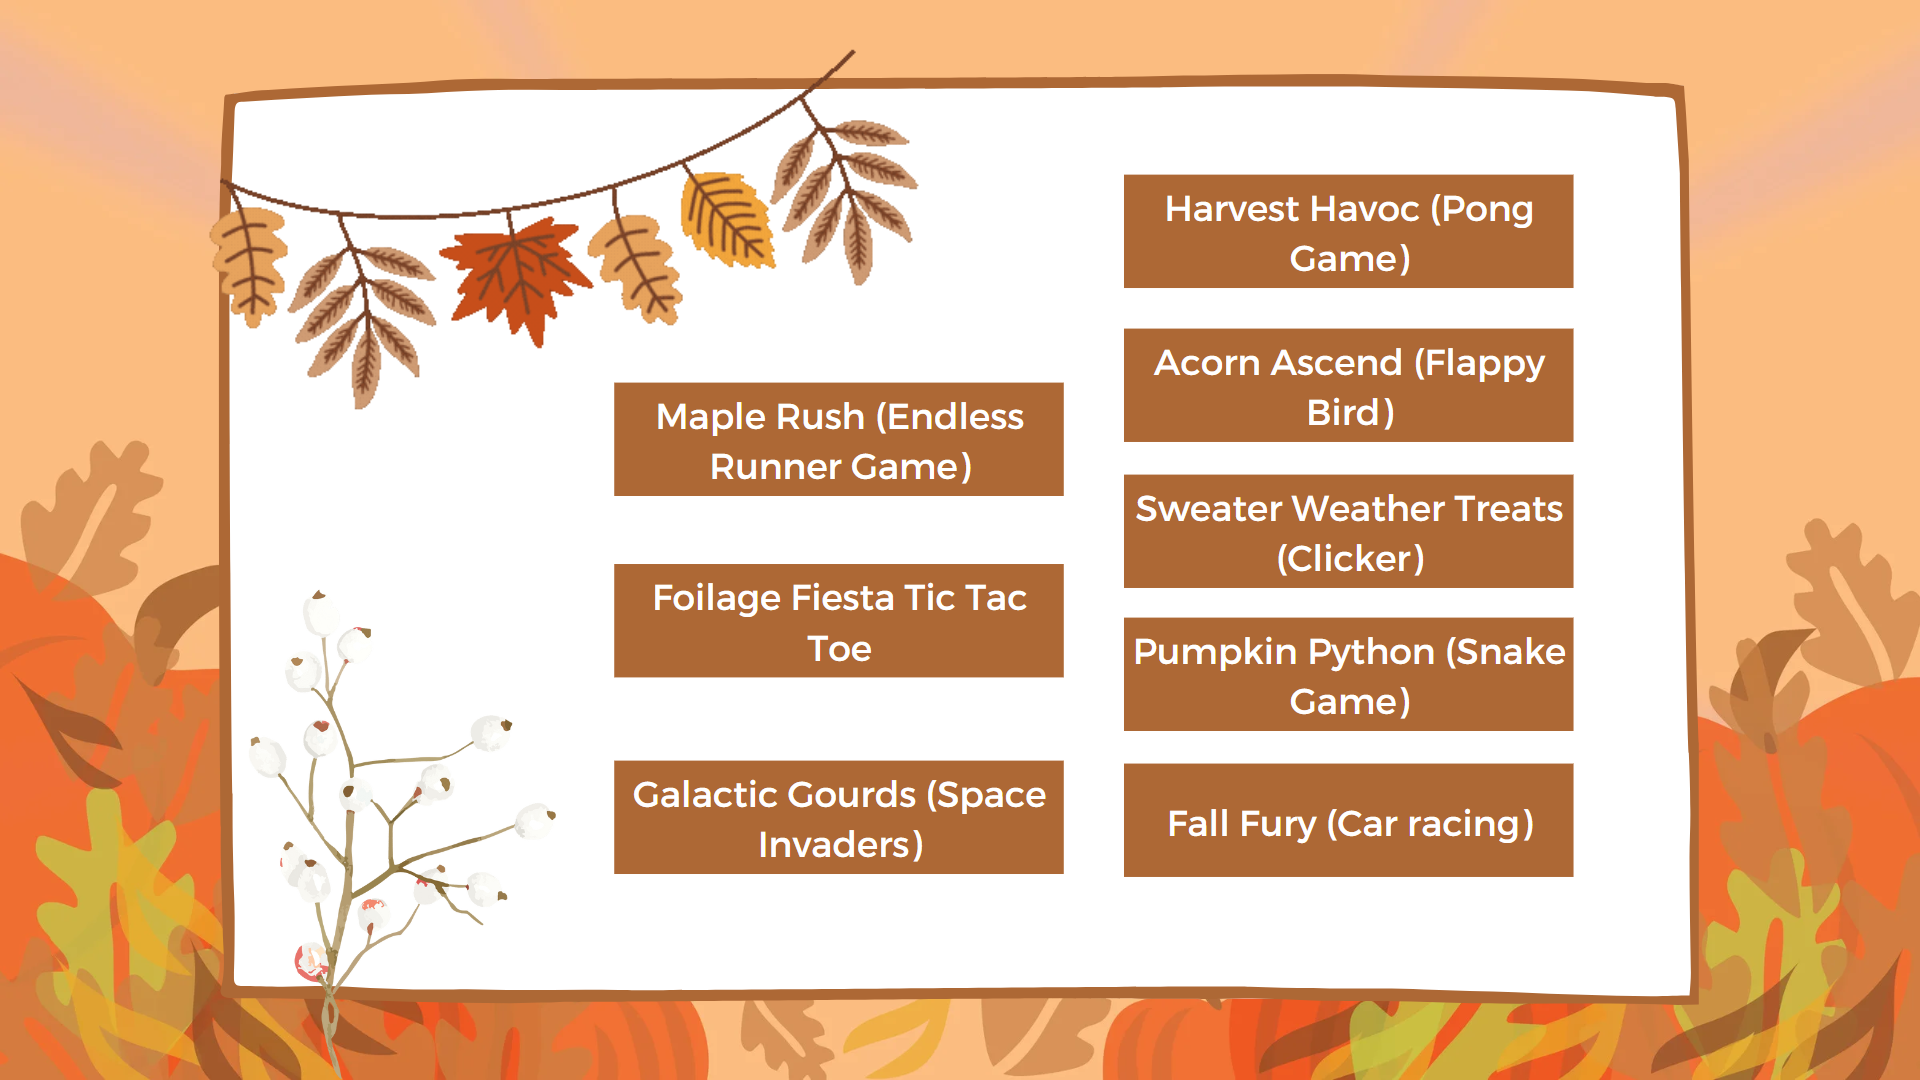
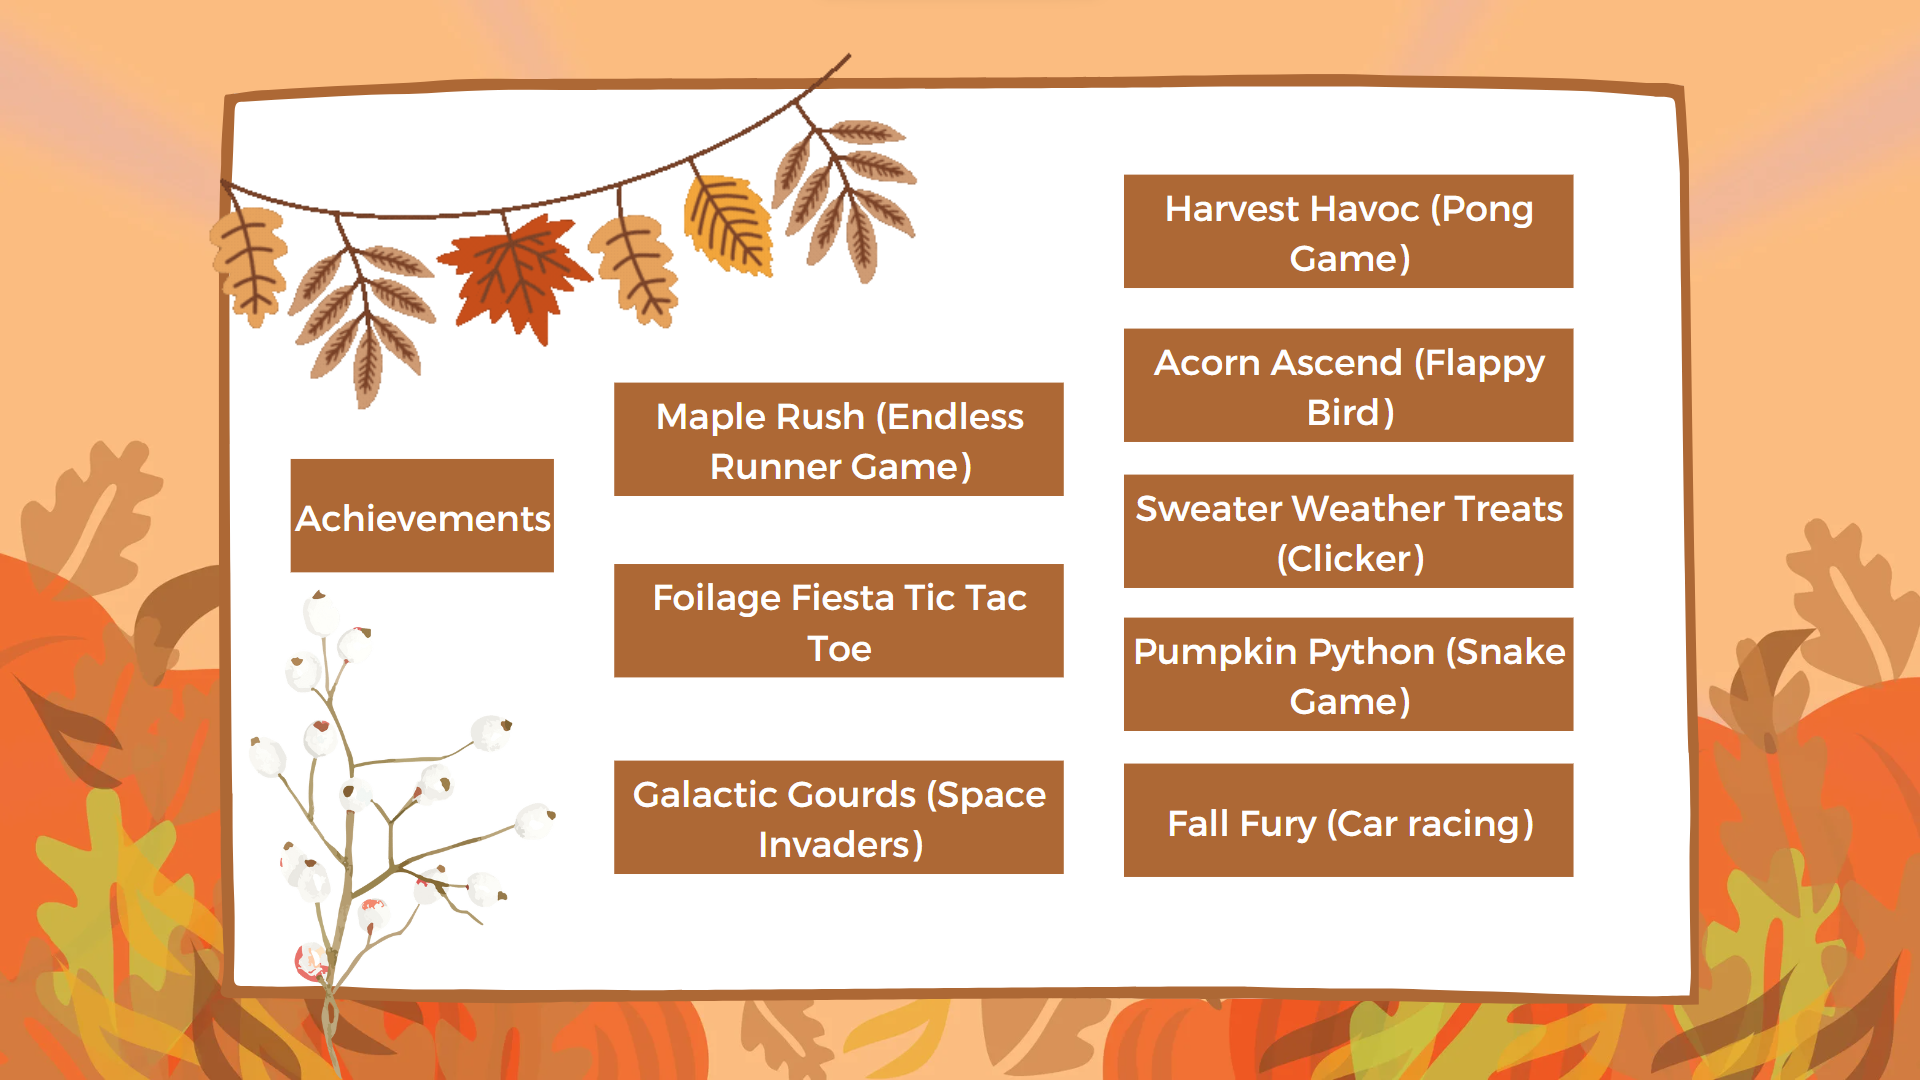
achievements (work in progress) and money

Changed region(s): [[0.125, 0.0917, 0.5, 0.3667], [0.125, 0.4278, 0.3125, 0.55]]

diff --git a/achievements.py b/achievements.py
@@ -1,0 +1,86 @@
+import random
+import pygame
+import os
+import subprocess
+
+pygame.init()
+
+screen_width = pygame.display.Info().current_w
+screen_height = pygame.display.Info().current_h
+
+screen = pygame.display.set_mode((screen_width, screen_height), pygame.FULLSCREEN)
+pygame.display.set_caption("Mini-Game Hub")
+
+font = pygame.font.Font(None, 60)
+font2 = pygame.font.Font(None, 30)
+
+width = screen.get_width()
+height = screen.get_height()
+splash_page = pygame.image.load('images/achieve.png')
+scaled_splash = pygame.transform.scale(splash_page, (800, 800))
+
+running = True
+
+clock = pygame.time.Clock()
+
+achievements = [
+    {"name": "Road Runner (500 points in Maple Rush)", "achieved": False},
+    {"name": "Cosmic Annihilator (500 points in Galactic Gourds)", "achieved": False},
+    {"name": "Winged Wonder (250 points in Acorn Ascend)", "achieved": True},
+    {"name": "Clicking Maestro (1000000 clicks in Sweater Weather Treats)", "achieved": True},
+    {"name": "Reptilian Ruler (25 apples in Pumpkin Python)", "achieved": False},
+    {"name": "Speed Demon (50 points in Fall Fury)", "achieved": True},
+    {"name": "Money Master (click to buy for 250 coins)", "achieved": False}
+]
+
+achieved_color = (0, 128, 0)  
+unachieved_color = (128, 128, 128) 
+
+while running:
+    for event in pygame.event.get():
+        if event.type == pygame.QUIT:
+            running = False
+        elif event.type == pygame.MOUSEBUTTONDOWN:
+            if event.button == 1:
+                mouse_pos = pygame.mouse.get_pos()
+                print(mouse_pos)
+                if (
+                    mouse_pos[0] > 230
+                    and mouse_pos[0] < 440
+                    and mouse_pos[1] > 365
+                    and mouse_pos[1] < 460
+                ):
+                    subprocess.Popen("python intro.py")
+                    pygame.quit()
+
+        if event.type == pygame.KEYDOWN:
+            if event.key == pygame.K_q:
+                running = False
+
+    with open("money.txt") as f:
+        contents = f.readlines()
+    c = ""
+    for thing in contents:
+        c += thing
+
+    txt = font.render("Money: " + c, 1, (0, 0, 0))
+
+    scaled_splash = pygame.transform.smoothscale(scaled_splash, (width, height))
+
+    screen.blit(scaled_splash, (0, 0))
+
+    screen.blit(txt, (10, 10))
+
+    y = 200  
+    for achievement in achievements:
+        name = achievement["name"]
+        achieved = achievement["achieved"]
+        color = achieved_color if achieved else unachieved_color
+        txt_achieve = font2.render(name, 1, color)
+        screen.blit(txt_achieve, (750, y))
+        y += 80  
+
+    pygame.display.flip()
+    clock.tick(60)
+
+pygame.quit()

diff --git a/intro.py b/intro.py
@@ -13,7 +13,7 @@ screen_height = pygame.display.Info().current_h
 screen = pygame.display.set_mode((screen_width, screen_height), pygame.FULLSCREEN)
 pygame.display.set_caption("Mini-Game Hub")
 
-font = pygame.font.Font(None, 36)
+font = pygame.font.Font(None, 60)
 
 
 width = screen.get_width()
@@ -21,50 +21,22 @@ height = screen.get_height()
 splash_page = pygame.image.load('images/games.png')
 scaled_splash = pygame.transform.scale(splash_page, (800, 800))
 
-class Ball:
-    def __init__(self):
-        self.radius = 20
-        self.color = (255, 0, 0)  
-        self.x = random.randint(self.radius, screen_width - self.radius)
-        self.y = -self.radius
-        self.velocity = 0
-        self.gravity = 0.5
-
-    def update(self):
-        self.y += self.velocity
-        self.velocity += self.gravity
-
-        if self.y + self.radius >= screen_height:
-            self.y = screen_height - self.radius
-            self.velocity *= -0.8
-
-            if abs(self.velocity) < 5:
-                self.y=screen_height-15
-
-    def draw(self):
-        pygame.draw.circle(screen, self.color, (self.x, int(self.y)), self.radius)
-
-balls=[]
 
 running = True
 
 clock = pygame.time.Clock()
 
-freq=200
-
-
 while running:
-    r=random.randint(0,freq)
-    if r<5:
-        ball=Ball()
-        balls.append(ball)
     for event in pygame.event.get():
         if event.type == pygame.QUIT:
             running = False
         elif event.type == pygame.MOUSEBUTTONDOWN:
-            freq+=1
             if event.button == 1:
                 mouse_pos = pygame.mouse.get_pos()
+                print(mouse_pos)
+                if mouse_pos[0]>230 and mouse_pos[0]<440 and mouse_pos[1]>365 and mouse_pos[1]<460:
+                    subprocess.Popen("python achievements.py")
+                    pygame.quit()
                 if mouse_pos[0]>490 and mouse_pos[0]<850 and mouse_pos[1]>305 and mouse_pos[1]<400:
                     subprocess.Popen("python endless_runner.py")
                     pygame.quit()
@@ -94,11 +66,20 @@ while running:
         if event.type == pygame.KEYDOWN:
             if event.key == pygame.K_q:
                 running=False
-
+    with open("money.txt") as f:
+        contents = f.readlines()
+    c=""
+    for thing in contents:
+        c+=thing
     
+    txt = font.render("Money: "+c, 1, (0,0,0))
+    
+
     scaled_splash = pygame.transform.smoothscale(scaled_splash, (width, height))
 
     screen.blit(scaled_splash, (0, 0))
+
+    screen.blit(txt, (10,10))
 
     pygame.display.flip()
     clock.tick(60)

diff --git a/open.py b/open.py
@@ -22,6 +22,8 @@ text = smallfont.render('S T A R T', True, color)
 splash_page = pygame.image.load('images/autumnarcade.png')
 scaled_splash = pygame.transform.scale(splash_page, (800, 800))
 
+with open('money.txt', 'w') as f:
+    f.write('0')
 
 counter = 1
 
